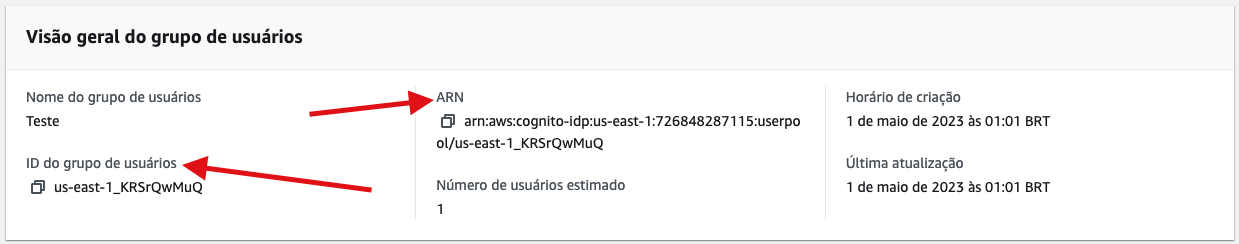
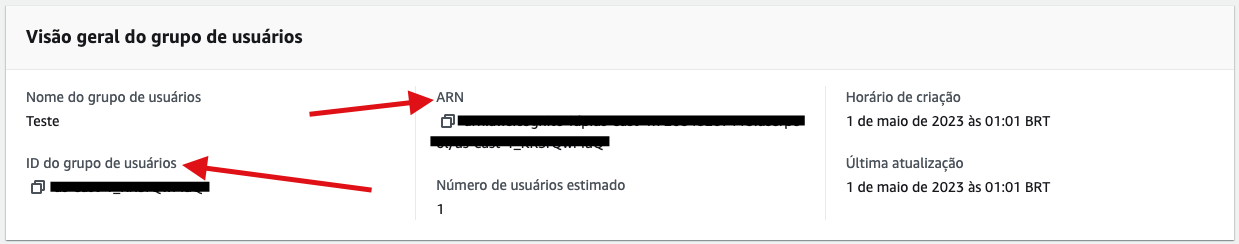
Adjust sensitive data on images

Changed region(s): [[0.368, 0.459, 0.6747, 0.5164], [0.0307, 0.7172, 0.184, 0.8033], [0.3374, 0.5451, 0.4907, 0.6025]]

diff --git a/README.md b/README.md
@@ -306,6 +306,7 @@ curl --request PUT \
 
 Neste artigo vimos como criar um usuário no Cognito, como criar um grupo de usuários, como adicionar o usuário ao grupo, como criar uma API Gateway com autenticação Cognito e como testar a API localmente e na AWS.
 Implementamos a solução pensando em uma arquitetura serverless escalável, segura e que possa ser de facil manutenção.
+A segurança é um fator muito importante e sempre devemos previnir de deixar no repositório as chaves de acesso, por isso, sempre utilize o .gitignore para não enviar arquivos sensíveis para o repositório.
 
 ### todos
 - [ ] Adicionar os métodos de DELETE, GET e LIST
